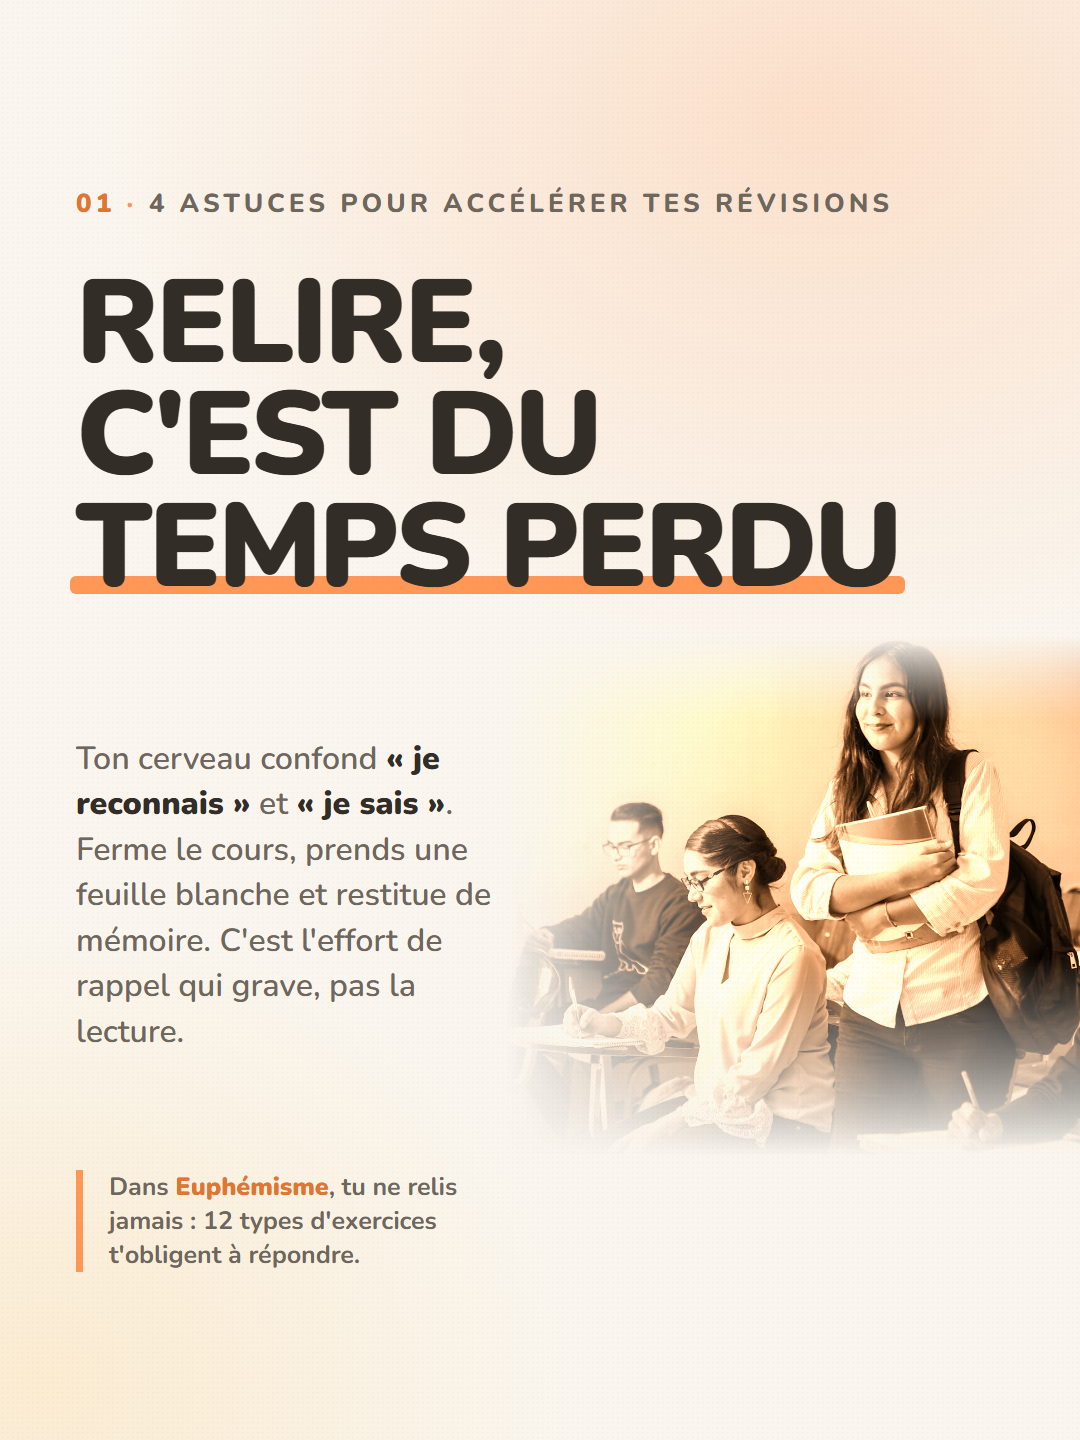
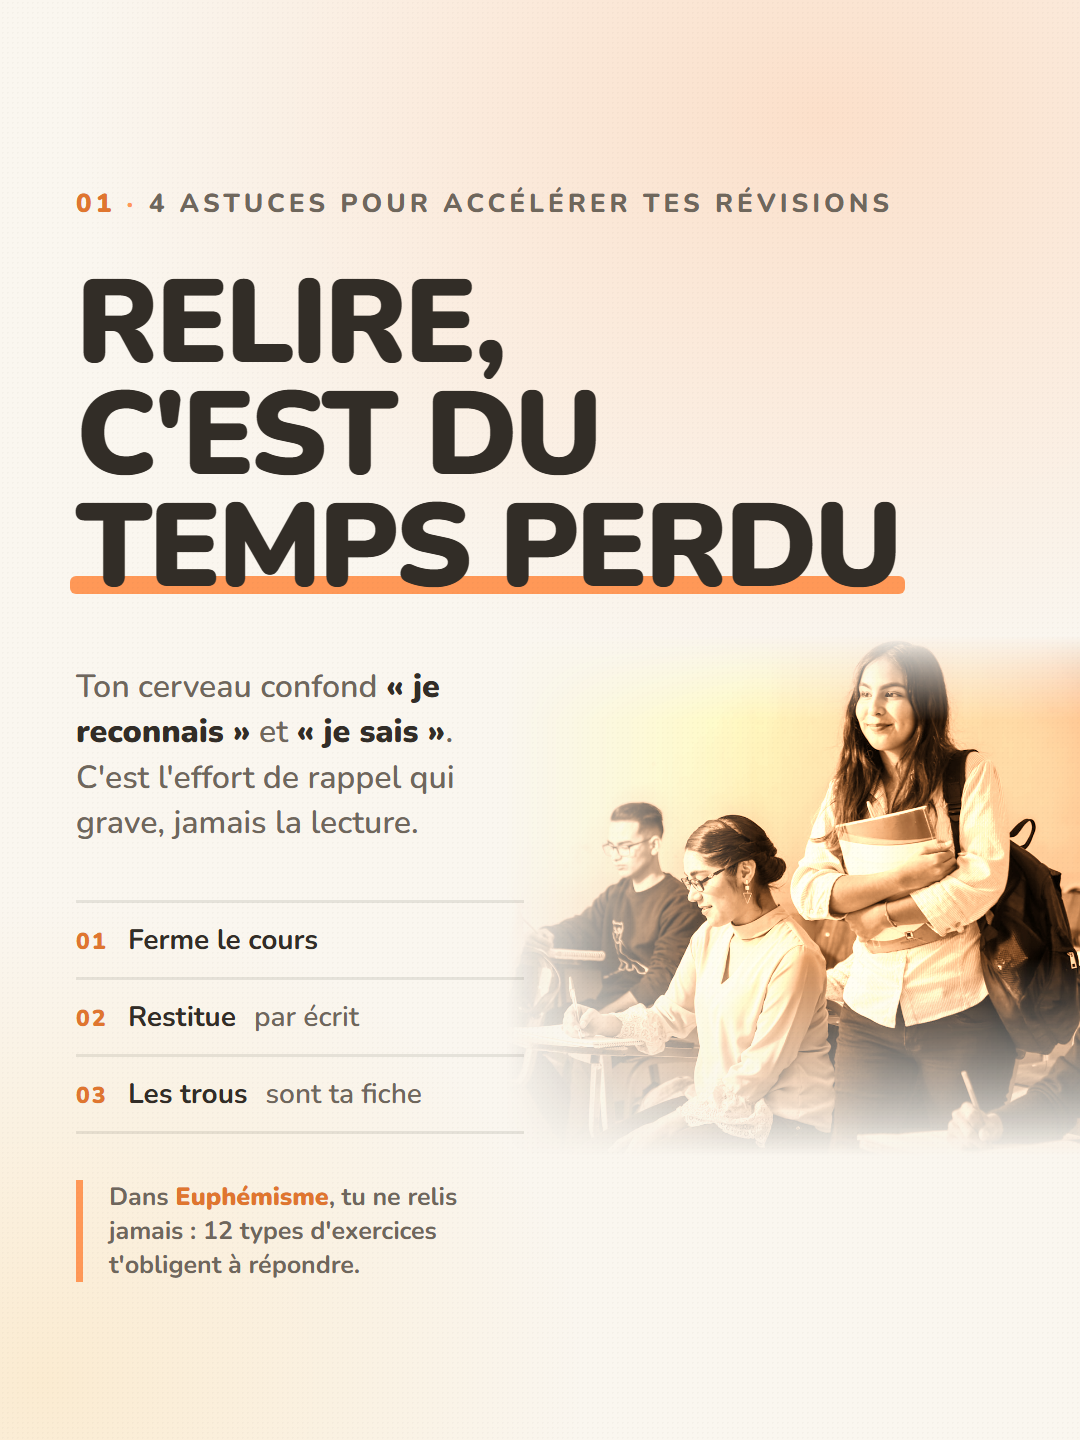
slides plus fournies : figure-litote 01+03, astuces-revisions 01+03

diff --git a/posts/figure-litote/html/03.html b/posts/figure-litote/html/03.html
@@ -7,9 +7,9 @@
 <style>
   .title { position: absolute; top: 252px; left: 76px; right: 60px;
            font-size: 114px; line-height: 1.06; z-index: 25; }
-  .quizcard { position: absolute; left: 76px; right: 76px; top: 548px;
-              padding: 38px 42px 42px; z-index: 30; }
-  .answers { position: absolute; left: 76px; right: 76px; top: 872px;
+  .quizcard { position: absolute; left: 76px; right: 76px; top: 528px;
+              padding: 36px 42px 40px; z-index: 30; }
+  .answers { position: absolute; left: 76px; right: 76px; top: 888px;
              display: flex; gap: 24px; z-index: 30; }
   .answers .a {
     flex: 1; text-align: center;
@@ -22,10 +22,11 @@
     letter-spacing: .06em; text-transform: uppercase;
     color: var(--eel);
   }
-  .pin { position: absolute; left: 76px; top: 1032px; z-index: 30;
+  .pin { position: absolute; left: 76px; top: 1030px; z-index: 30;
          font-size: 25px; font-weight: 800; letter-spacing: .08em;
          text-transform: uppercase; color: var(--fox-dark); }
-  .sign { position: absolute; left: 76px; bottom: 128px; z-index: 35; }
+  .indice { position: absolute; left: 76px; right: 88px; top: 1086px; z-index: 30; }
+  .sign { position: absolute; left: 76px; bottom: 118px; z-index: 35; }
 </style>
 </head>
 <body>
@@ -41,6 +42,8 @@
   <div class="quizcard appcard">
     <span class="chip">Sur ta copie</span>
     <div class="quote">&laquo;&nbsp;Tu ne t'en sors<br>pas mal.&nbsp;&raquo;</div>
+    <div class="gloss">Une remarque de prof en marge d'une copie. Att&eacute;nu&eacute;e, oui&nbsp;&mdash;
+    mais dans quel sens&nbsp;?</div>
   </div>
 
   <div class="answers">
@@ -49,6 +52,10 @@
   </div>
 
   <div class="pin">R&eacute;ponse en description</div>
+
+  <p class="indice lead"><strong>Pour trancher&nbsp;:</strong> demande-toi si la phrase
+  <b>adoucit une r&eacute;alit&eacute; p&eacute;nible</b>, ou si elle <b>nie le contraire</b>
+  pour dire plus fort.</p>
 
   <div class="sign">
     <div class="foxbadge"></div>

diff --git a/posts/astuces-revisions/html/01.html b/posts/astuces-revisions/html/01.html
@@ -24,8 +24,14 @@
   }
   .photo.hero img { object-position: 62% 14%; }
 
-  .lead { position: absolute; left: 76px; top: 736px; width: 452px; z-index: 30; }
-  .feature { position: absolute; left: 76px; bottom: 168px; width: 452px; z-index: 30; }
+  .lead { position: absolute; left: 76px; top: 664px; width: 448px; z-index: 30; }
+
+  /* le protocole, en trois gestes */
+  .etapes { position: absolute; left: 76px; top: 900px; width: 448px; z-index: 30; }
+  .etapes li { font-size: 28px; padding: 18px 0; gap: 18px; }
+  .etapes li .n { min-width: 34px; }
+
+  .feature { position: absolute; left: 76px; top: 1180px; width: 448px; z-index: 30; }
 </style>
 </head>
 <body>
@@ -42,8 +48,14 @@
   <div class="photo hero"><img src="../../../assets/photo-g.jpg" alt=""></div>
 
   <p class="lead">Ton cerveau confond <strong>&laquo;&nbsp;je reconnais&nbsp;&raquo;</strong> et
-  <strong>&laquo;&nbsp;je sais&nbsp;&raquo;</strong>. Ferme le cours, prends une feuille blanche
-  et restitue de m&eacute;moire. C'est l'effort de rappel qui grave, pas la lecture.</p>
+  <strong>&laquo;&nbsp;je sais&nbsp;&raquo;</strong>. C'est l'effort de rappel qui grave,
+  jamais la lecture.</p>
+
+  <ol class="etapes">
+    <li><span class="n">01</span> Ferme le cours</li>
+    <li><span class="n">02</span> Restitue <span class="t">par &eacute;crit</span></li>
+    <li><span class="n">03</span> Les trous <span class="t">sont ta fiche</span></li>
+  </ol>
 
   <p class="feature">Dans <b>Euph&eacute;misme</b>, tu ne relis jamais&nbsp;: 12&nbsp;types
   d'exercices t'obligent &agrave; r&eacute;pondre.</p>

diff --git a/posts/astuces-revisions/html/03.html b/posts/astuces-revisions/html/03.html
@@ -24,8 +24,10 @@
   }
   .photo.hero img { object-position: 46% 30%; }
 
-  .lead { position: absolute; left: 76px; top: 736px; width: 452px; z-index: 30; }
-  .feature { position: absolute; left: 76px; bottom: 168px; width: 452px; z-index: 30; }
+  .lead { position: absolute; left: 76px; top: 700px; width: 452px; z-index: 30; }
+  .test { position: absolute; left: 76px; top: 1000px; width: 452px;
+          font-size: 28px; line-height: 1.4; z-index: 30; }
+  .feature { position: absolute; left: 76px; bottom: 122px; width: 452px; z-index: 30; }
 </style>
 </head>
 <body>
@@ -44,6 +46,9 @@
   <p class="lead">Relire ton explication lin&eacute;aire dans ta t&ecirc;te ne pr&eacute;pare pas
   l'entretien. <strong>Dis-la debout, chronom&egrave;tre, recommence.</strong> Le jury &eacute;coute
   une voix qui pense, pas une fiche r&eacute;cit&eacute;e.</p>
+
+  <p class="test lead"><strong>Le test qui pique&nbsp;:</strong> enregistre-toi une fois.
+  Tu entendras tes &laquo;&nbsp;euh&nbsp;&raquo; et tes phrases qui ne finissent pas.</p>
 
   <p class="feature">Dans <b>Euph&eacute;misme</b>, l'entretien s'entra&icirc;ne toute
   l'ann&eacute;e &mdash; pas la veille.</p>

diff --git a/posts/figure-litote/html/01.html b/posts/figure-litote/html/01.html
@@ -8,8 +8,9 @@
   .title { position: absolute; top: 252px; left: 76px; right: 60px;
            font-size: 114px; line-height: 1.06; z-index: 25; }
   .lead  { position: absolute; left: 76px; top: 546px; width: 800px; z-index: 30; }
-  .regle { position: absolute; left: 76px; width: 812px; top: 812px; z-index: 30; }
-  .sign  { position: absolute; left: 76px; bottom: 128px; z-index: 35; }
+  .regle { position: absolute; left: 76px; width: 812px; top: 742px; z-index: 30; }
+  .repere { position: absolute; left: 76px; right: 88px; top: 1014px; z-index: 30; }
+  .sign  { position: absolute; left: 76px; bottom: 122px; z-index: 35; }
 </style>
 </head>
 <body>
@@ -35,6 +36,11 @@
       <div class="v">att&eacute;nuer pour <b>renforcer</b></div>
     </div>
   </div>
+
+  <p class="repere lead"><strong>Le rep&egrave;re&nbsp;:</strong> la litote est presque toujours une
+  <strong>n&eacute;gation du contraire</strong> &mdash; &laquo;&nbsp;ne&hellip; pas&nbsp;&raquo;,
+  &laquo;&nbsp;ne&hellip; point&nbsp;&raquo;. L'euph&eacute;misme, lui, remplace un mot p&eacute;nible
+  par un mot doux.</p>
 
   <div class="sign">
     <div class="foxbadge"></div>
